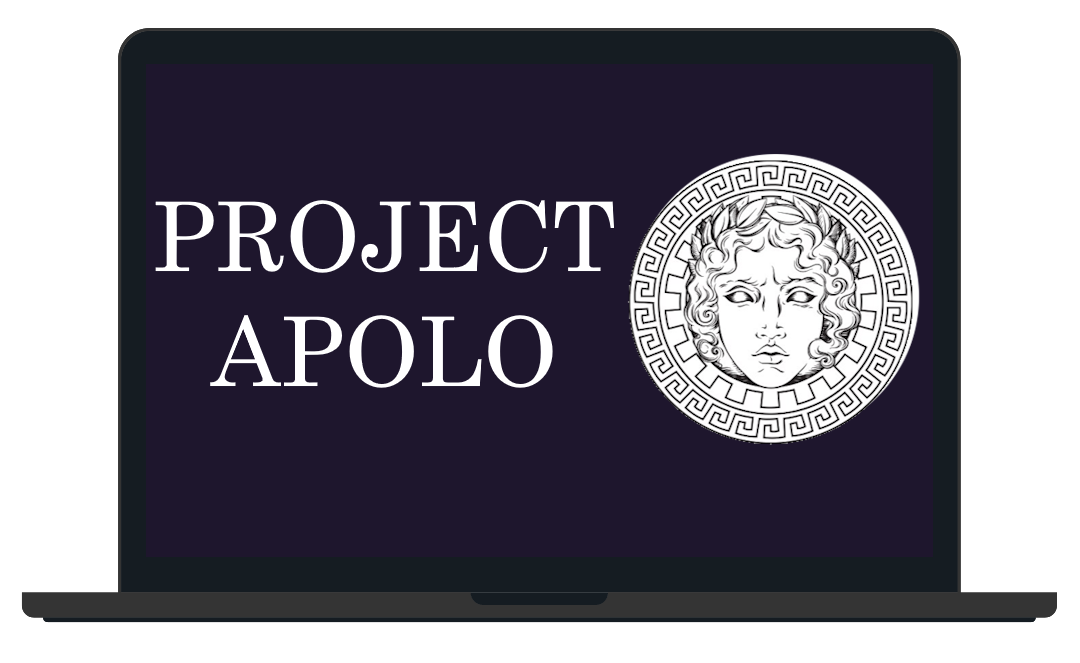
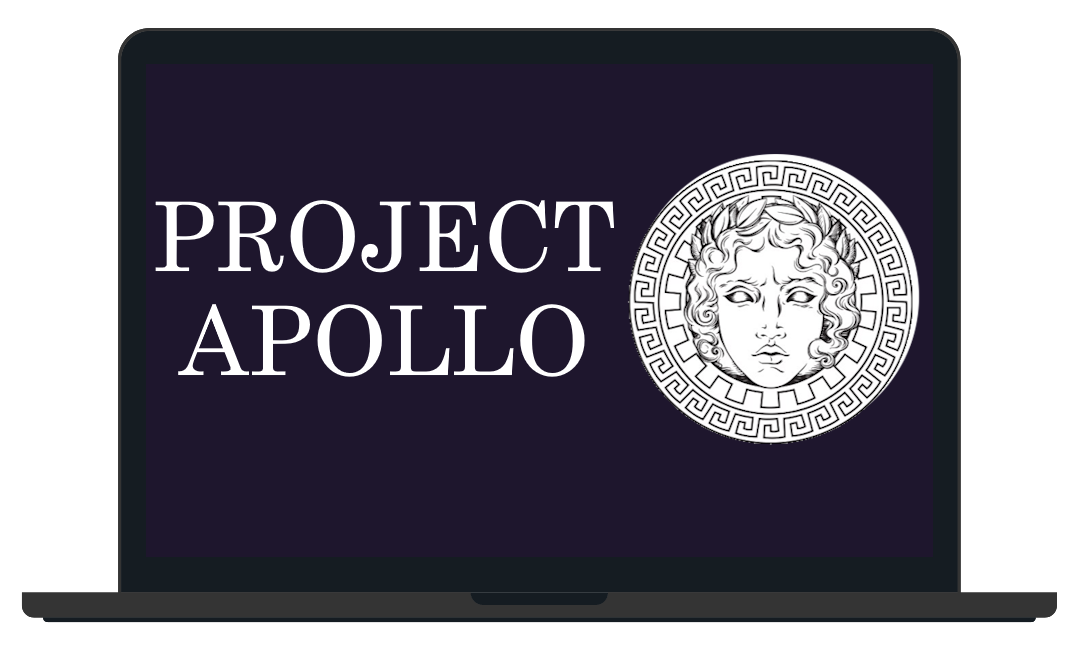
Update images and text

Changed region(s): [[0.1528, 0.4525, 0.55, 0.6033]]

diff --git a/src/components/Projects/Projects.js b/src/components/Projects/Projects.js
@@ -22,11 +22,11 @@ function Projects() {
             <ProjectCard
               imgPath={apolo}
               isBlog={false}
-              title="Repositorio API (Project Apolo)"
-              description="Ralicé esta pequeña API para una prueba técnica"
+              title="API (Project Apollo)"
+              description="Realicé esta pequeña API para una prueba técnica, con una Arquitectura por capas"
               ghLink="https://github.com/JoseAtoche/ProyectoAPI"
               demoLink=""
-              tecnologias=".NET 8, SQLite"
+              tecnologias=".NET 8, Layered Architecture, SQLite"
             />
           </Col>
 
@@ -34,11 +34,11 @@ function Projects() {
             <ProjectCard
               imgPath={atenea}
               isBlog={false}
-              title="API Layered Architecture (Project Atenea)"
-              description="Realizado para tratar de mostrar mejor como es mi dominio de la arquitectura por capas"
+              title="Front + API (Project Athena)"
+              description="Realizado para una prueba tecnica, tiene un front en React y una API con consumo de APIs externas"
               ghLink="https://github.com/JoseAtoche/ProjectLayeredArchitecture"
               demoLink=""
-              tecnologias=".NET 8, SQL Server"
+              tecnologias=".NET 8, Layered Architecture, SQL Server, React"
             />
           </Col>
 
@@ -50,7 +50,7 @@ function Projects() {
               description="Una aplicación utilizando Arquitectura DDD y CQRS con Event Sourcing para manejar eventos, integrando RabbitMQ, Docker, SQL Server y MediaR para la lógica de comandos y consultas."
               ghLink=""
               demoLink=""
-              tecnologias="DDD, CQRS, Event Sourcing, RabbitMQ, Docker, SQL Server, MediaR"
+              tecnologias=".NET 8, DDD, CQRS, Event Sourcing, RabbitMQ, Docker, SQL Server, MediaR"
             />
           </Col>
 
@@ -62,7 +62,7 @@ function Projects() {
               description="Una aplicación con Arquitectura Hexagonal, implementando CQRS y Event Sourcing con Kafka para mensajería en tiempo real, ejecutada en Docker y orquestada en Kubernetes en AWS, utilizando SQL Server, CosmosDB y MediaR."
               ghLink=""
               demoLink=""
-              tecnologias="Arquitectura Hexagonal, CQRS, Event Sourcing, Kafka, Docker, Kubernetes, AWS, SQL Server, CosmosDB, MediaR"
+              tecnologias=".NET 8, Arquitectura Hexagonal, CQRS, Event Sourcing, Kafka, Docker, Kubernetes, AWS, CosmosDB, MediaR"
             />
           </Col>
 
@@ -74,7 +74,7 @@ function Projects() {
               description="En este canal subo los directos que hago aprendiendo distintas tecnologías o en mis proyectos personales"
               ghLink=""
               demoLink="https://www.youtube.com/@atochejose" 
-              tecnologias="¡Todas! (próximamente)"             
+              tecnologias="¡Pásate por mi canal a descubrir cuales!"             
             />
           </Col>
         </Row>
